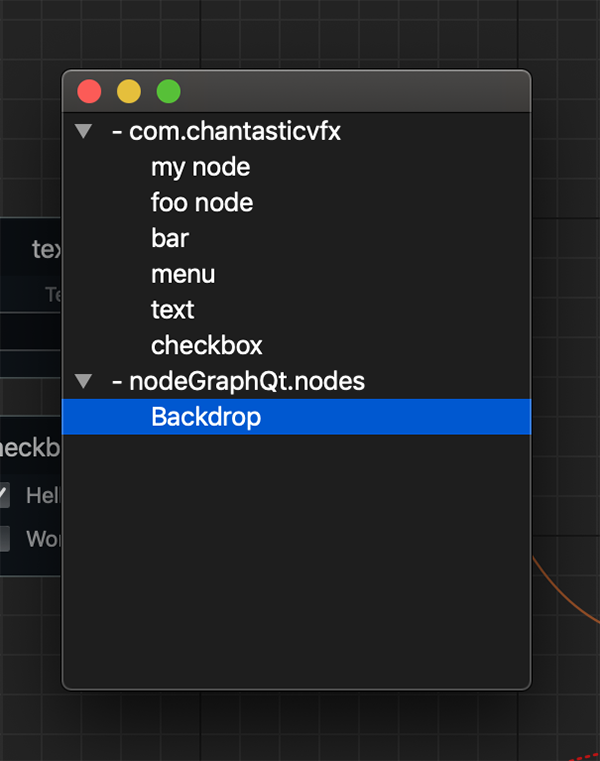
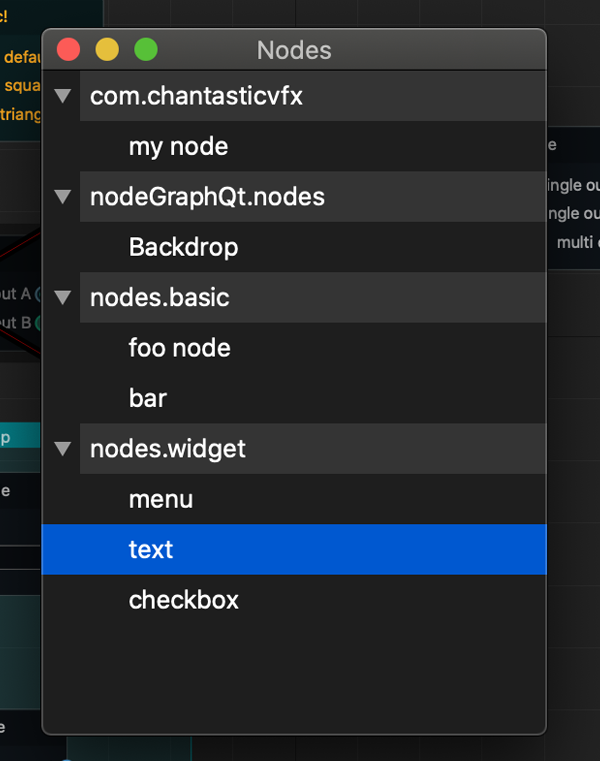
rebuilt docs

diff --git a/api/html/searchindex.js b/api/html/searchindex.js
@@ -1,1 +1,1 @@
-Search.setIndex({docnames:["constants","custom_widgets","examples/ex_menu","examples/ex_node","examples/ex_overview","examples/ex_pipe","examples/ex_port","graph","index","menu","node_widgets","nodes","nodes/BackdropNode","nodes/BaseNode","nodes/NodeObject","nodes/Port"],envversion:{"sphinx.domains.c":2,"sphinx.domains.changeset":1,"sphinx.domains.citation":1,"sphinx.domains.cpp":3,"sphinx.domains.index":1,"sphinx.domains.javascript":2,"sphinx.domains.math":2,"sphinx.domains.python":3,"sphinx.domains.rst":2,"sphinx.domains.std":2,"sphinx.ext.intersphinx":1,sphinx:56},filenames:["constants.rst","custom_widgets.rst","examples/ex_menu.rst","examples/ex_node.rst","examples/ex_overview.rst","examples/ex_pipe.rst","examples/ex_port.rst","graph.rst","index.rst","menu.rst","node_widgets.rst","nodes.rst","nodes/BackdropNode.rst","nodes/BaseNode.rst","nodes/NodeObject.rst","nodes/Port.rst"],objects:{"NodeGraphQt.BackdropNode":{auto_size:[12,1,1,""],nodes:[12,1,1,""],on_backdrop_updated:[12,1,1,""],set_size:[12,1,1,""],set_text:[12,1,1,""],size:[12,1,1,""],text:[12,1,1,""],wrap_nodes:[12,1,1,""]},"NodeGraphQt.BaseNode":{add_checkbox:[13,1,1,""],add_combo_menu:[13,1,1,""],add_custom_widget:[13,1,1,""],add_file_input:[13,1,1,""],add_float_input:[13,1,1,""],add_input:[13,1,1,""],add_int_input:[13,1,1,""],add_output:[13,1,1,""],add_text_input:[13,1,1,""],connected_input_nodes:[13,1,1,""],connected_output_nodes:[13,1,1,""],delete_input:[13,1,1,""],delete_output:[13,1,1,""],draw:[13,1,1,""],get_input:[13,1,1,""],get_output:[13,1,1,""],get_widget:[13,1,1,""],hide:[13,1,1,""],icon:[13,1,1,""],input:[13,1,1,""],input_ports:[13,1,1,""],inputs:[13,1,1,""],on_input_connected:[13,1,1,""],on_input_disconnected:[13,1,1,""],output:[13,1,1,""],output_ports:[13,1,1,""],outputs:[13,1,1,""],run:[13,1,1,""],set_dynamic_port:[13,1,1,""],set_editable:[13,1,1,""],set_icon:[13,1,1,""],set_input:[13,1,1,""],set_output:[13,1,1,""],set_ports:[13,1,1,""],show:[13,1,1,""],update_combo_menu:[13,1,1,""],update_stream:[13,1,1,""],widgets:[13,1,1,""]},"NodeGraphQt.NodeBaseWidget":{get_custom_widget:[10,1,1,""],get_icon:[10,1,1,""],get_label:[10,1,1,""],get_name:[10,1,1,""],get_value:[10,1,1,""],on_value_changed:[10,1,1,""],set_custom_widget:[10,1,1,""],set_label:[10,1,1,""],set_name:[10,1,1,""],set_value:[10,1,1,""],value_changed:[10,2,1,""]},"NodeGraphQt.NodeGraph":{acyclic:[7,1,1,""],add_node:[7,1,1,""],add_properties_bin:[7,1,1,""],all_nodes:[7,1,1,""],auto_layout_nodes:[7,1,1,""],auto_update:[7,3,1,""],background_color:[7,1,1,""],begin_undo:[7,1,1,""],center_on:[7,1,1,""],center_selection:[7,1,1,""],clear_selection:[7,1,1,""],clear_session:[7,1,1,""],clear_undo_stack:[7,1,1,""],close:[7,1,1,""],context_menu:[7,1,1,""],context_nodes_menu:[7,1,1,""],copy_nodes:[7,1,1,""],create_node:[7,1,1,""],current_session:[7,1,1,""],cut_nodes:[7,1,1,""],data_dropped:[7,2,1,""],delete_node:[7,1,1,""],delete_nodes:[7,1,1,""],deserialize_session:[7,1,1,""],disable_context_menu:[7,1,1,""],disable_nodes:[7,1,1,""],duplicate_nodes:[7,1,1,""],editable:[7,3,1,""],end_undo:[7,1,1,""],fit_to_selection:[7,1,1,""],get_context_menu:[7,1,1,""],get_node_by_id:[7,1,1,""],get_node_by_name:[7,1,1,""],get_node_by_path:[7,1,1,""],get_node_space:[7,1,1,""],get_unique_name:[7,1,1,""],get_zoom:[7,1,1,""],graph_rect:[7,1,1,""],grid_color:[7,1,1,""],import_session:[7,1,1,""],load_dialog:[7,1,1,""],load_session:[7,1,1,""],message_dialog:[7,1,1,""],model:[7,2,1,""],node_created:[7,2,1,""],node_double_clicked:[7,2,1,""],node_factory:[7,3,1,""],node_selected:[7,2,1,""],node_selection_changed:[7,2,1,""],nodes_deleted:[7,2,1,""],paste_nodes:[7,1,1,""],pipe_collision:[7,1,1,""],port_connected:[7,2,1,""],port_disconnected:[7,2,1,""],property_changed:[7,2,1,""],question_dialog:[7,1,1,""],register_node:[7,1,1,""],register_nodes:[7,1,1,""],registered_nodes:[7,1,1,""],reset_zoom:[7,1,1,""],root_node:[7,1,1,""],save_dialog:[7,1,1,""],save_session:[7,1,1,""],scene:[7,1,1,""],select_all:[7,1,1,""],selected_nodes:[7,1,1,""],serialize_session:[7,1,1,""],session_changed:[7,2,1,""],set_acyclic:[7,1,1,""],set_background_color:[7,1,1,""],set_graph_rect:[7,1,1,""],set_grid_color:[7,1,1,""],set_grid_mode:[7,1,1,""],set_node_space:[7,1,1,""],set_pipe_collision:[7,1,1,""],set_pipe_style:[7,1,1,""],set_zoom:[7,1,1,""],show:[7,1,1,""],undo_stack:[7,1,1,""],undo_view:[7,3,1,""],use_OpenGL:[7,1,1,""],viewer:[7,1,1,""],widget:[7,2,1,""]},"NodeGraphQt.NodeGraphCommand":{name:[9,1,1,""],run_command:[9,1,1,""],set_shortcut:[9,1,1,""]},"NodeGraphQt.NodeGraphMenu":{add_command:[9,1,1,""],add_menu:[9,1,1,""],add_separator:[9,1,1,""],all_commands:[9,1,1,""],get_command:[9,1,1,""],get_menu:[9,1,1,""],name:[9,1,1,""]},"NodeGraphQt.NodeObject":{"delete":[14,1,1,""],NODE_NAME:[14,2,1,""],__identifier__:[14,2,1,""],color:[14,1,1,""],create_property:[14,1,1,""],disabled:[14,1,1,""],get_property:[14,1,1,""],graph:[14,2,1,""],has_property:[14,1,1,""],hide:[14,1,1,""],id:[14,2,1,""],model:[14,2,1,""],name:[14,1,1,""],parent:[14,1,1,""],path:[14,1,1,""],pos:[14,1,1,""],properties:[14,1,1,""],selected:[14,1,1,""],set_color:[14,1,1,""],set_disabled:[14,1,1,""],set_graph:[14,1,1,""],set_model:[14,1,1,""],set_name:[14,1,1,""],set_parent:[14,1,1,""],set_pos:[14,1,1,""],set_property:[14,1,1,""],set_selected:[14,1,1,""],set_view:[14,1,1,""],set_x_pos:[14,1,1,""],set_y_pos:[14,1,1,""],show:[14,1,1,""],type_:[14,2,1,""],update:[14,1,1,""],update_model:[14,1,1,""],view:[14,2,1,""],x_pos:[14,1,1,""],y_pos:[14,1,1,""]},"NodeGraphQt.NodeTreeWidget":{set_category_label:[1,1,1,""],update:[1,1,1,""]},"NodeGraphQt.NodesMenu":{add_command:[9,1,1,""]},"NodeGraphQt.Port":{clear_connections:[15,1,1,""],connect_to:[15,1,1,""],connected_ports:[15,1,1,""],disconnect_from:[15,1,1,""],lock:[15,1,1,""],locked:[15,1,1,""],multi_connection:[15,1,1,""],name:[15,1,1,""],node:[15,1,1,""],set_locked:[15,1,1,""],set_visible:[15,1,1,""],type_:[15,1,1,""],unlock:[15,1,1,""],visible:[15,1,1,""]},"NodeGraphQt.PropertiesBinWidget":{add_node:[1,1,1,""],clear_bin:[1,1,1,""],limit:[1,1,1,""],lock_bin:[1,1,1,""],prop_widget:[1,1,1,""],remove_node:[1,1,1,""],set_limit:[1,1,1,""]},"NodeGraphQt.SubGraph":{add_child:[7,1,1,""],children:[7,1,1,""],create_from_nodes:[7,1,1,""],enter:[7,1,1,""],exit:[7,1,1,""],remove_child:[7,1,1,""]},"NodeGraphQt.constants":{IN_PORT:[0,5,1,""],NODE_LAYOUT_DIRECTION:[0,5,1,""],NODE_LAYOUT_HORIZONTAL:[0,5,1,""],NODE_LAYOUT_VERTICAL:[0,5,1,""],NODE_PROP:[0,5,1,""],NODE_PROP_BUTTON:[0,5,1,""],NODE_PROP_COLORPICKER:[0,5,1,""],NODE_PROP_FILE:[0,5,1,""],NODE_PROP_FILE_SAVE:[0,5,1,""],NODE_PROP_FLOAT:[0,5,1,""],NODE_PROP_INT:[0,5,1,""],NODE_PROP_QCHECKBOX:[0,5,1,""],NODE_PROP_QCOMBO:[0,5,1,""],NODE_PROP_QLABEL:[0,5,1,""],NODE_PROP_QLINEEDIT:[0,5,1,""],NODE_PROP_QSPINBOX:[0,5,1,""],NODE_PROP_QTEXTEDIT:[0,5,1,""],NODE_PROP_SLIDER:[0,5,1,""],NODE_PROP_VECTOR2:[0,5,1,""],NODE_PROP_VECTOR3:[0,5,1,""],NODE_PROP_VECTOR4:[0,5,1,""],OUT_PORT:[0,5,1,""],PIPE_LAYOUT_ANGLE:[0,5,1,""],PIPE_LAYOUT_CURVED:[0,5,1,""],PIPE_LAYOUT_STRAIGHT:[0,5,1,""],VERSION:[0,5,1,""],VIEWER_GRID_DOTS:[0,5,1,""],VIEWER_GRID_LINES:[0,5,1,""],VIEWER_GRID_NONE:[0,5,1,""]},"NodeGraphQt.widgets.node_widgets":{NodeCheckBox:[10,0,1,""],NodeComboBox:[10,0,1,""],NodeFilePath:[10,0,1,""],NodeFloatEdit:[10,0,1,""],NodeIntEdit:[10,0,1,""],NodeLineEdit:[10,0,1,""]},"NodeGraphQt.widgets.node_widgets.NodeCheckBox":{get_value:[10,1,1,""],set_value:[10,1,1,""]},"NodeGraphQt.widgets.node_widgets.NodeComboBox":{get_value:[10,1,1,""],set_value:[10,1,1,""]},"NodeGraphQt.widgets.node_widgets.NodeFloatEdit":{get_value:[10,1,1,""],set_value:[10,1,1,""]},"NodeGraphQt.widgets.node_widgets.NodeLineEdit":{get_value:[10,1,1,""],set_value:[10,1,1,""]},NodeGraphQt:{BackdropNode:[12,0,1,""],BaseNode:[13,0,1,""],NodeBaseWidget:[10,0,1,""],NodeGraph:[7,0,1,""],NodeGraphCommand:[9,0,1,""],NodeGraphMenu:[9,0,1,""],NodeObject:[14,0,1,""],NodePublishWidget:[1,0,1,""],NodeTreeWidget:[1,0,1,""],NodesMenu:[9,0,1,""],Port:[15,0,1,""],PropertiesBinWidget:[1,0,1,""],SubGraph:[7,0,1,""],constants:[0,4,0,"-"],setup_context_menu:[9,6,1,""]}},objnames:{"0":["py","class","Python class"],"1":["py","method","Python method"],"2":["py","attribute","Python attribute"],"3":["py","property","Python property"],"4":["py","module","Python module"],"5":["py","data","Python data"],"6":["py","function","Python function"]},objtypes:{"0":"py:class","1":"py:method","2":"py:attribute","3":"py:property","4":"py:module","5":"py:data","6":"py:function"},terms:{"0":[0,3,4,6,7,10,13,14],"1":[0,1,2,3,4,5,6,7,9,10,11,12,13,14,15],"10":0,"100":[2,3],"11":0,"12":0,"13":0,"130":6,"136":6,"14":[0,6],"15":0,"16":0,"17":0,"180":4,"195":6,"2":[0,3,4,6,7,13],"200":6,"23":3,"255":[6,7,13,14],"3":[0,5],"300":[2,3,4],"35":6,"4":0,"45":6,"5":0,"50":4,"59":6,"6":[0,1,2,3,4,5,6,7,9,10,11,12,13,14,15],"60":6,"7":0,"70":6,"8":[0,6],"80":4,"9":[0,7],"class":[1,2,3,4,5,6,7,9,10,12,13,14,15],"default":[0,3,4,6,7,8,10,13],"float":[0,7,10,12,13,14],"function":[2,3,5,6,7,9,10,13,14],"import":[1,2,3,4,5,6,7,9,13],"int":[0,1,6,7,13,14],"new":[1,7,10,13,15],"return":[1,3,7,9,10,12,13,14,15],"short":2,"super":[2,3,4,5,6,13],"true":[7,13,14,15],A:4,And:6,By:7,For:15,If:[7,13,15],No:7,The:[0,1,2,3,5,6,7,9,10,12,13,14,15],There:3,To:[3,6,7,10],__classname__:14,__identifier__:[2,3,4,13,14],__init__:[2,3,4,6,13],__main__:[3,4],__name__:[3,4],_prop_bin:3,abov:[3,5,10],abstractnodeitem:14,access:9,action:[4,5,7],acycl:7,ad:[3,7,8,10,13,15],add:[1,2,3,7,9,13],add_checkbox:[3,10,13],add_child:7,add_combo_menu:[3,10,13],add_command:[2,9],add_custom_widget:[3,13],add_file_input:[10,13],add_float_input:[10,13],add_input:[2,3,4,6,13,15],add_int_input:[10,13],add_menu:[2,9],add_nod:[1,7],add_output:[2,3,4,6,13,15],add_properties_bin:7,add_separ:9,add_text_input:[3,10,13],additem:3,addwidget:3,after:13,alia:7,all:[1,7,9,13,14,15],all_command:9,all_nod:7,allow:[3,7,10,12,13],alreadi:5,also:2,alt:4,an:[2,3,4,6,7,13],angl:[0,5,7],anoth:[6,13,15],app:[3,4],append:[6,9],appl:3,appli:15,ar:[3,7,10,14,15],arg:[6,7,10,15],argument:6,argv:4,around:12,asid:2,assign:2,associ:13,attribut:[10,14],auto:[7,12],auto_layout_nod:7,auto_s:12,auto_upd:7,automat:7,avoid:7,b:[3,4,7,13,14],backdrop:12,backdropnod:[8,11,14],background:[0,7],background_color:7,banana:3,bar:[2,3],bar_nod:2,barnod:2,base:[3,7,13,14],basenod:[1,2,3,4,6,7,8,10,11,12,14,15],basi:2,basic:[3,8],been:[7,13],befor:10,begin_undo:7,below:[2,3,10],between:7,bin:[0,3,7,8,14],block:7,blue:[7,14],bool:[7,10,13,14,15],border_color:6,box:3,btn_go:3,built:[4,14],builtin:10,button:[0,3,7],c:3,call:[2,3,15],callback:13,can:[1,2,3,4,5,6,7,10,15],categori:1,cb1_index:3,cb2_index:3,center:[6,7],center_on:7,center_select:7,chang:[7,10],chantasticvfx:[2,3,4,13],check:[10,13,14],checkbox:13,child:9,children:7,class_nam:14,clear:[1,7],clear_bin:1,clear_connect:15,clear_select:7,clear_sess:7,clear_undo_stack:7,click:[2,3,7],clipboard:7,close:7,code:9,collis:7,color:[4,6,7,13,14],colorpick:0,com:[2,3,4,8,13],combin:9,combo1_v:3,combo2_v:3,combo:3,combo_1:3,combo_2:3,combobox:13,command:[2,4,8],compon:7,connect:[0,4,6,7,8,10,13,15],connect_to:[3,15],connected_input_nod:13,connected_output_nod:13,connected_port:15,constant:[5,7,8,14,15],contain:[0,7],context:[2,7,8],context_menu:[2,7,9],context_nodes_menu:7,control:[4,7],conveni:[2,5,7,9],copi:7,copy_nod:7,coupl:[2,3],creat:[1,2,4,7,8,13,14,15],create_from_nod:7,create_nod:[2,3,4,7],create_properti:[13,14],current:[0,6,7,9,10,12,14,15],current_dir:7,current_sess:7,currentindexchang:3,currenttext:3,curv:[0,5,7],custom:[2,7,8,10,13,14],cut:[2,7],cut_nod:7,data:[7,13,14],data_drop:7,data_typ:13,def:[2,3,4,6,13],defin:[2,14],delet:[7,13,14],delete_input:13,delete_nod:7,delete_output:13,describ:6,deselect:7,deseri:13,deserialize_sess:7,dialog:[1,7],dict:[6,7,13,14],dictionari:[7,14],differ:5,direct:0,directori:7,disabl:[7,14],disable_context_menu:7,disable_nod:7,disconnect:[4,7,13,15],disconnect_from:[3,15],displai:[1,3,10,12,13,14],display_nam:13,display_prop_bin:3,document:8,doe:13,domain:[4,13,14],done:3,dot:0,doubl:[3,7],down:[4,13],down_stream:7,drag:[1,4,7],draw:[0,6,7,13,14,15],draw_square_port:6,draw_triangle_port:6,drawn:7,drawpolygon:6,drawrect:6,drop:[1,7],duplic:7,duplicate_nod:7,easili:[4,5],edit:[1,5,7,13],eg:[1,9,14],either:14,elif:6,els:[3,6],emb:[3,10,13],embed:[8,13],emit:[7,10,15],enabl:[7,14],end:7,end_undo:7,enter:7,essenti:[2,9],evalu:13,event:13,exampl:[1,7,9,10,13],exec_:[3,4],execut:9,exist:[14,15],exit:7,ext:[7,10,13,14],extens:7,factor:7,factori:7,fals:[6,7,10,13,14,15],few:[1,2,3],ffffff:7,file:[0,1,7,13,14],file_path:7,fill:13,findtext:3,fit:[7,12],fit_to_select:7,flag:[13,14],follow:[7,14],foo:[2,3,4,13],foo_menu:2,foo_nod:2,foonod:[2,4,13],forc:13,format:[1,2,3,7],frame:7,framework:[0,1,10],from:[1,2,3,4,5,6,7,9,10,12,13,14,15],func:[2,9,10,14],g:[7,13,14],get:[2,7,9,13,14],get_command:9,get_context_menu:[2,7,9],get_custom_widget:[3,10],get_icon:10,get_input:13,get_label:10,get_menu:9,get_nam:10,get_node_by_id:7,get_node_by_nam:7,get_node_by_path:7,get_node_spac:7,get_output:13,get_properti:14,get_unique_nam:7,get_valu:[3,10],get_widget:13,get_zoom:7,github:8,given:7,go:3,good:12,graph:[0,1,3,4,5,8,10,12,14,15],graph_rect:7,graph_widget:4,graphic:[14,15],green:[7,14],grid:[0,7],grid_color:7,group:12,ha:[2,5,7,10,13],has_properti:14,have:[3,5,6,7,13],height:[6,7,12],hello:3,here:[1,2,3,4,5,6,14],hidden:0,hide:[13,14],horizont:[0,14],hotkei:4,hover:6,how:1,http:8,icon:[10,13],id:[1,7,14],identifi:[1,3,4,7,13,14],imag:13,implement:[6,7,9,10,13,14],import_sess:7,in_port:[0,13,15],includ:1,index:[3,13],info:6,inform:6,inherit:[4,7,9,10,12,13,14],initi:[3,4,7,13,14],input:[0,3,4,6,7,13,15],input_port:13,insert:7,insid:[3,12],instanc:7,interfac:[4,7],intern:7,intersect:12,isvis:3,item:[3,9,10,13,14,15],jchanvfx:8,json:[1,7],just:7,kei:[2,9],kwarg:10,label:[1,3,9,10,13],lai:7,layout:[0,3,7,8],layout_data:7,len:[2,3],level:7,librari:0,limit:1,line:[0,3,13],list:[1,3,7,9,12,13,14,15],ll:[5,9],lmb:[4,7],load:[1,7],load_dialog:7,load_sess:7,lock:[1,13,15],lock_bin:1,logic:13,made:13,main:[2,7,9,10,14],mainli:12,make:[3,7],manag:7,mango:3,mani:1,map:6,marque:4,match:[7,13],matchexactli:3,max:[7,14],menu:[4,7,8,13],menucommand:9,messag:7,message_dialog:7,meth:10,method:[7,13],mime:7,min:14,miterjoin:6,mmb:4,mode:[0,7,14],model:[7,14],modul:2,more:[3,13],mous:[4,6],multi:13,multi_connect:[6,13,15],multi_input:13,multi_lin:13,multi_output:13,multipl:3,must:10,my:3,my_list:3,my_test:2,my_widget:3,mycustomwidget:3,mylistnod:[3,6],mynod:3,mynodegraph:3,name:[2,3,4,7,9,10,13,14,15],namespac:0,navig:8,need:[6,7],nest:[10,12],node:[0,5,7,8,12,13,14,15],node_a:[3,4],node_abstract:14,node_b:[3,4],node_class:9,node_cr:7,node_double_click:[3,7],node_factori:7,node_graph:[1,2,3,9],node_id:7,node_layout_direct:0,node_layout_horizont:0,node_layout_vert:0,node_list:13,node_nam:[2,3,4,13,14],node_path:7,node_prop:[0,14],node_prop_button:[0,14],node_prop_colorpick:[0,14],node_prop_fil:[0,14],node_prop_file_sav:0,node_prop_float:[0,14],node_prop_int:[0,14],node_prop_qcheckbox:[0,14],node_prop_qcombo:[0,14],node_prop_qlabel:[0,14],node_prop_qlineedit:[0,14],node_prop_qspinbox:[0,14],node_prop_qtextedit:[0,14],node_prop_slid:[0,14],node_prop_vector2:[0,14],node_prop_vector3:[0,14],node_prop_vector4:[0,14],node_property_nam:10,node_property_valu:10,node_select:7,node_selection_chang:7,node_typ:[2,7,9],node_widget:[3,10,13],nodebasewidget:[3,8,13],nodecheckbox:8,nodecombobox:8,nodefactori:7,nodefilepath:8,nodefloatedit:8,nodegraph:[1,2,3,4,5,8,9,14,15],nodegraphcommand:9,nodegraphmenu:[7,9],nodegraphmodel:7,nodegraphqt:[0,1,2,3,4,5,6,7,9,10,12,13,14,15],nodeintedit:8,nodelineedit:8,nodemodel:14,nodeobject:[1,3,7,8,11,12,13,15],nodepropwidget:1,nodepublishwidget:1,nodes_delet:7,nodes_menu:[2,9],nodes_tre:1,nodescen:7,nodesmenu:[7,9],nodetreewidget:1,nodeview:7,nodewidgetwrapp:3,none:[1,3,7,9,10,12,13,14,15],nonetyp:13,note:5,noth:[0,13],now:6,number:2,object:[1,2,3,4,6,7,10,12,13,14,15],on_backdrop_upd:12,on_btn_go_click:3,on_input_connect:13,on_input_disconnect:13,on_value_chang:[3,10],one:[13,15],open:7,opengl:7,option:[7,12],orang:3,other:12,out:[0,2,3,4,7,13],out_port:[0,13,15],output:[0,3,4,7,13,15],output_port:13,over:[6,7],overrid:[2,13],overview:[7,8],own:10,paint:6,painter:6,painter_func:[6,13],pan:4,paramet:[1,6,7,9,10,12,13,14,15],parent:[1,3,7,10,14,15],parent_nod:14,pass:6,past:7,paste_nod:7,path:[7,13,14],pear:3,pen:6,per:2,pipe:[0,7,8,13,15],pipe_collis:7,pipe_layout_angl:[0,5,7],pipe_layout_curv:[0,5,7],pipe_layout_straight:[0,5,7],po:[2,3,4,7,14],polygon:6,popul:9,port:[0,3,4,7,8,11,13],port_a:3,port_b:3,port_connect:[7,15],port_data:13,port_disconnect:[7,15],port_nam:13,port_object:13,port_poli:6,port_typ:6,portitem:[13,15],posit:[6,7,14],pre:13,print:[2,3],prompt:7,prop_bin:7,prop_widget:1,properti:[0,3,7,8,10,12,13,14],properties_bin:1,propertiesbin:8,propertiesbinwidget:[1,3,7,13,14],property_chang:7,property_nam:13,propeti:10,provid:14,publish:8,pyside2:[7,13],python:14,qaction:9,qapplic:[3,4],qcheckbox:[0,3,10,13],qcolor:6,qcombobox:[0,3,10,13],qgraphic:14,qgraphics_item:14,qgraphicsitem:14,qgraphicsscen:7,qhboxlayout:3,qlabel:[0,13],qlayout:7,qlineedit:[0,3,10,13],qmenu:9,qmimedata:7,qobject:7,qpainter:6,qpen:6,qpoint:7,qpointf:6,qpolygonf:6,qpushbutton:3,qrectf:6,qspinbox:0,qt:[3,4,6,10],qtcore:[3,6,7],qtextedit:0,qtgui:6,qtransform:6,qtwidget:[1,3,4,7,10,13,14],question:7,question_dialog:7,qundostack:7,qundoview:7,qwidget:[1,3,7,10],r:[7,13,14],rang:[7,13,14],re:[9,10,13,14],rect:[6,7],red:[7,14],redo:13,redraw:13,refresh:1,regist:[1,2,4,7],register_nod:[2,3,4,7],registered_nod:7,reimplement:3,remov:[1,7],remove_child:7,remove_nod:1,render:0,repres:0,requir:13,reset:7,reset_zoom:7,resiz:12,restor:[6,13],result:[4,9],revers:13,root:7,root_nod:7,run:[7,13],run_command:9,s:[1,3,4,5,6,9,12],same:[7,15],save:[0,6,7],save_dialog:7,save_sess:7,scene:[7,13,14],scroll:4,search:8,see:[2,3,7,10,13,15],select:[2,7,8,14],select_al:7,selected_nod:[2,7],selector:0,self:[2,3,4,6,13],separ:9,serial:[1,7,13],serialize_sess:7,session:7,session_chang:7,set:[0,1,2,3,4,5,7,9,10,12,13,14,15],set_acycl:7,set_background_color:7,set_category_label:1,set_color:14,set_custom_widget:[3,10],set_dis:[7,14],set_dynamic_port:13,set_edit:13,set_graph:14,set_graph_rect:7,set_grid_color:7,set_grid_mod:7,set_icon:13,set_input:[3,13],set_label:[3,10],set_limit:1,set_lock:[13,15],set_model:14,set_nam:[3,10,14],set_node_spac:7,set_output:[3,4,13],set_par:14,set_pipe_collis:7,set_pipe_styl:[5,7],set_po:14,set_port:13,set_properti:[3,10,13,14],set_select:14,set_shortcut:9,set_siz:12,set_text:12,set_valu:[3,10],set_view:14,set_vis:15,set_x_po:14,set_y_po:14,set_zoom:7,setbrush:6,setcontentsmargin:3,setcurrentindex:3,setjoinstyl:6,setpen:6,setup:8,setup_context_menu:[2,4,5,9],setwindowflag:3,shape:[8,13],shift:[2,4],shortcut:9,shotcut:9,should:15,show:[1,2,3,4,7,13,14],shown:5,signal:[3,7,10,12,13,15],simpl:[1,5,7,8],simpli:3,singl:15,size:[6,12],slice:8,slider:[0,13],slot:[3,10,12],snippet:[4,5,13],so:15,some:[2,3,14],sourc:13,space:7,specifi:[6,7,9,12,13,15],split:3,squar:8,stack:7,start:7,start_nod:7,state:[6,7,10,13,14,15],store:7,str:[1,7,9,10,12,13,14,15],straight:[0,5,7],stream:[7,13],string:[7,12,14],style:[0,5,7],sub:[7,9],subclass:3,subgraph:[8,14],sy:4,t:[2,15],tab:[3,8,13,14],target:13,test:2,test_func:2,text:[7,10,12,13],text_color:7,than:13,them:4,thi:[1,2,5,7,10,13,14,15],throughout:0,titl:7,togeth:[4,12],toggl:4,tool:[3,4],transform:6,translat:6,tree:8,triangl:8,trigger:[7,9,10,12,13],tupl:[7,12,13,14],two:4,type:[0,1,2,3,7,9,10,12,13,14,15],type_:[14,15],under:[5,12],undo:[7,13],undo_stack:7,undo_view:7,uniqu:[3,4,7,13,14],unique_nam:7,unlik:7,unlock:[1,15],unselect:4,up:[2,3,4,5,7,13],updat:[1,3,12,13,14],update_combo_menu:13,update_model:14,update_prop:12,update_stream:13,us:[0,4,6,7,10,14,15],use_opengl:7,user:[1,4,7],v0:[0,1,2,3,4,5,6,7,9,10,11,12,13,14,15],valu:[3,7,10,12,13,14],value_chang:[10,13],variabl:[0,5,14],ve:5,vector2:0,vector3:0,vector4:0,version:0,vertic:0,view:[3,7,10,13,14],viewer:7,viewer_grid_dot:[0,7],viewer_grid_lin:[0,7],viewer_grid_non:[0,7],visibl:[4,13,15],wa:13,wai:3,we:[2,3],weather:[7,15],when:[3,7,10,13,15],where:[2,3,6],whether:[7,13,14],whole:0,widget:[0,2,4,7,13,14],widget_typ:[13,14],width:[7,12],window:7,wire:[3,7,13],wire_sign:3,within:12,work:13,world:3,wrap:12,wrap_nod:12,wrapper:[3,10],x:[6,7,14],x_po:14,xy:14,y:[6,7,14],y_po:14,ye:7,you:[2,3,5,6,10,13],your:[5,10],zoom:[4,7]},titles:["Constants","Custom Widgets","Menu Examples","Node Examples","Basic Overview","Pipe Examples","Port Examples","Graphs","NodeGraphQt v0.1.6","Menus","Node Embedded Widgets","Nodes","BackdropNode","BaseNode","NodeObject","Port"],titleterms:{"1":8,"6":8,"class":11,"default":2,ad:2,api:8,backdropnod:12,basenod:13,basic:4,bin:1,command:9,connect:3,constant:0,context:9,creat:[3,6],custom:[1,3,6],embed:[3,10],exampl:[2,3,4,5,6,8],graph:[2,7,9],layout:5,menu:[2,9],navig:4,node:[1,2,3,4,9,10,11],nodebasewidget:10,nodecheckbox:10,nodecombobox:10,nodefilepath:10,nodefloatedit:10,nodegraph:7,nodegraphqt:8,nodeintedit:10,nodelineedit:10,nodeobject:14,overview:4,pipe:[4,5],port:[6,15],properti:1,propertiesbin:3,publish:1,refer:8,search:4,select:4,setup:[2,9],shape:6,simpl:4,slice:4,squar:6,subgraph:7,tab:4,tree:1,triangl:6,v0:8,widget:[1,3,8,10]}})
+Search.setIndex({docnames:["constants","custom_widgets","examples/ex_menu","examples/ex_node","examples/ex_overview","examples/ex_pipe","examples/ex_port","graph","index","menu","node_widgets","nodes","nodes/BackdropNode","nodes/BaseNode","nodes/NodeObject","nodes/Port"],envversion:{"sphinx.domains.c":2,"sphinx.domains.changeset":1,"sphinx.domains.citation":1,"sphinx.domains.cpp":3,"sphinx.domains.index":1,"sphinx.domains.javascript":2,"sphinx.domains.math":2,"sphinx.domains.python":3,"sphinx.domains.rst":2,"sphinx.domains.std":2,"sphinx.ext.intersphinx":1,sphinx:56},filenames:["constants.rst","custom_widgets.rst","examples/ex_menu.rst","examples/ex_node.rst","examples/ex_overview.rst","examples/ex_pipe.rst","examples/ex_port.rst","graph.rst","index.rst","menu.rst","node_widgets.rst","nodes.rst","nodes/BackdropNode.rst","nodes/BaseNode.rst","nodes/NodeObject.rst","nodes/Port.rst"],objects:{"NodeGraphQt.BackdropNode":{auto_size:[12,1,1,""],nodes:[12,1,1,""],on_backdrop_updated:[12,1,1,""],set_size:[12,1,1,""],set_text:[12,1,1,""],size:[12,1,1,""],text:[12,1,1,""],wrap_nodes:[12,1,1,""]},"NodeGraphQt.BaseNode":{add_checkbox:[13,1,1,""],add_combo_menu:[13,1,1,""],add_custom_widget:[13,1,1,""],add_file_input:[13,1,1,""],add_float_input:[13,1,1,""],add_input:[13,1,1,""],add_int_input:[13,1,1,""],add_output:[13,1,1,""],add_text_input:[13,1,1,""],connected_input_nodes:[13,1,1,""],connected_output_nodes:[13,1,1,""],delete_input:[13,1,1,""],delete_output:[13,1,1,""],draw:[13,1,1,""],get_input:[13,1,1,""],get_output:[13,1,1,""],get_widget:[13,1,1,""],hide:[13,1,1,""],icon:[13,1,1,""],input:[13,1,1,""],input_ports:[13,1,1,""],inputs:[13,1,1,""],on_input_connected:[13,1,1,""],on_input_disconnected:[13,1,1,""],output:[13,1,1,""],output_ports:[13,1,1,""],outputs:[13,1,1,""],run:[13,1,1,""],set_dynamic_port:[13,1,1,""],set_editable:[13,1,1,""],set_icon:[13,1,1,""],set_input:[13,1,1,""],set_output:[13,1,1,""],set_ports:[13,1,1,""],show:[13,1,1,""],update_combo_menu:[13,1,1,""],update_stream:[13,1,1,""],widgets:[13,1,1,""]},"NodeGraphQt.NodeBaseWidget":{get_custom_widget:[10,1,1,""],get_icon:[10,1,1,""],get_label:[10,1,1,""],get_name:[10,1,1,""],get_value:[10,1,1,""],on_value_changed:[10,1,1,""],set_custom_widget:[10,1,1,""],set_label:[10,1,1,""],set_name:[10,1,1,""],set_value:[10,1,1,""],value_changed:[10,2,1,""]},"NodeGraphQt.NodeGraph":{acyclic:[7,1,1,""],add_node:[7,1,1,""],add_properties_bin:[7,1,1,""],all_nodes:[7,1,1,""],auto_layout_nodes:[7,1,1,""],auto_update:[7,3,1,""],background_color:[7,1,1,""],begin_undo:[7,1,1,""],center_on:[7,1,1,""],center_selection:[7,1,1,""],clear_selection:[7,1,1,""],clear_session:[7,1,1,""],clear_undo_stack:[7,1,1,""],close:[7,1,1,""],context_menu:[7,1,1,""],context_nodes_menu:[7,1,1,""],copy_nodes:[7,1,1,""],create_node:[7,1,1,""],current_session:[7,1,1,""],cut_nodes:[7,1,1,""],data_dropped:[7,2,1,""],delete_node:[7,1,1,""],delete_nodes:[7,1,1,""],deserialize_session:[7,1,1,""],disable_context_menu:[7,1,1,""],disable_nodes:[7,1,1,""],duplicate_nodes:[7,1,1,""],editable:[7,3,1,""],end_undo:[7,1,1,""],fit_to_selection:[7,1,1,""],get_context_menu:[7,1,1,""],get_node_by_id:[7,1,1,""],get_node_by_name:[7,1,1,""],get_node_by_path:[7,1,1,""],get_node_space:[7,1,1,""],get_unique_name:[7,1,1,""],get_zoom:[7,1,1,""],graph_rect:[7,1,1,""],grid_color:[7,1,1,""],import_session:[7,1,1,""],load_dialog:[7,1,1,""],load_session:[7,1,1,""],message_dialog:[7,1,1,""],model:[7,2,1,""],node_created:[7,2,1,""],node_double_clicked:[7,2,1,""],node_factory:[7,3,1,""],node_selected:[7,2,1,""],node_selection_changed:[7,2,1,""],nodes_deleted:[7,2,1,""],paste_nodes:[7,1,1,""],pipe_collision:[7,1,1,""],port_connected:[7,2,1,""],port_disconnected:[7,2,1,""],property_changed:[7,2,1,""],question_dialog:[7,1,1,""],register_node:[7,1,1,""],register_nodes:[7,1,1,""],registered_nodes:[7,1,1,""],reset_zoom:[7,1,1,""],root_node:[7,1,1,""],save_dialog:[7,1,1,""],save_session:[7,1,1,""],scene:[7,1,1,""],select_all:[7,1,1,""],selected_nodes:[7,1,1,""],serialize_session:[7,1,1,""],session_changed:[7,2,1,""],set_acyclic:[7,1,1,""],set_background_color:[7,1,1,""],set_graph_rect:[7,1,1,""],set_grid_color:[7,1,1,""],set_grid_mode:[7,1,1,""],set_node_space:[7,1,1,""],set_pipe_collision:[7,1,1,""],set_pipe_style:[7,1,1,""],set_zoom:[7,1,1,""],show:[7,1,1,""],undo_stack:[7,1,1,""],undo_view:[7,3,1,""],use_OpenGL:[7,1,1,""],viewer:[7,1,1,""],widget:[7,2,1,""]},"NodeGraphQt.NodeGraphCommand":{name:[9,1,1,""],run_command:[9,1,1,""],set_shortcut:[9,1,1,""]},"NodeGraphQt.NodeGraphMenu":{add_command:[9,1,1,""],add_menu:[9,1,1,""],add_separator:[9,1,1,""],all_commands:[9,1,1,""],get_command:[9,1,1,""],get_menu:[9,1,1,""],name:[9,1,1,""]},"NodeGraphQt.NodeObject":{"delete":[14,1,1,""],NODE_NAME:[14,2,1,""],__identifier__:[14,2,1,""],color:[14,1,1,""],create_property:[14,1,1,""],disabled:[14,1,1,""],get_property:[14,1,1,""],graph:[14,2,1,""],has_property:[14,1,1,""],hide:[14,1,1,""],id:[14,2,1,""],model:[14,2,1,""],name:[14,1,1,""],parent:[14,1,1,""],path:[14,1,1,""],pos:[14,1,1,""],properties:[14,1,1,""],selected:[14,1,1,""],set_color:[14,1,1,""],set_disabled:[14,1,1,""],set_graph:[14,1,1,""],set_model:[14,1,1,""],set_name:[14,1,1,""],set_parent:[14,1,1,""],set_pos:[14,1,1,""],set_property:[14,1,1,""],set_selected:[14,1,1,""],set_view:[14,1,1,""],set_x_pos:[14,1,1,""],set_y_pos:[14,1,1,""],show:[14,1,1,""],type_:[14,2,1,""],update:[14,1,1,""],update_model:[14,1,1,""],view:[14,2,1,""],x_pos:[14,1,1,""],y_pos:[14,1,1,""]},"NodeGraphQt.NodeTreeWidget":{set_category_label:[1,1,1,""],update:[1,1,1,""]},"NodeGraphQt.NodesMenu":{add_command:[9,1,1,""]},"NodeGraphQt.Port":{clear_connections:[15,1,1,""],connect_to:[15,1,1,""],connected_ports:[15,1,1,""],disconnect_from:[15,1,1,""],lock:[15,1,1,""],locked:[15,1,1,""],multi_connection:[15,1,1,""],name:[15,1,1,""],node:[15,1,1,""],set_locked:[15,1,1,""],set_visible:[15,1,1,""],type_:[15,1,1,""],unlock:[15,1,1,""],visible:[15,1,1,""]},"NodeGraphQt.PropertiesBinWidget":{add_node:[1,1,1,""],clear_bin:[1,1,1,""],limit:[1,1,1,""],lock_bin:[1,1,1,""],prop_widget:[1,1,1,""],remove_node:[1,1,1,""],set_limit:[1,1,1,""]},"NodeGraphQt.SubGraph":{add_child:[7,1,1,""],children:[7,1,1,""],create_from_nodes:[7,1,1,""],enter:[7,1,1,""],exit:[7,1,1,""],remove_child:[7,1,1,""]},"NodeGraphQt.constants":{IN_PORT:[0,5,1,""],NODE_LAYOUT_DIRECTION:[0,5,1,""],NODE_LAYOUT_HORIZONTAL:[0,5,1,""],NODE_LAYOUT_VERTICAL:[0,5,1,""],NODE_PROP:[0,5,1,""],NODE_PROP_BUTTON:[0,5,1,""],NODE_PROP_COLORPICKER:[0,5,1,""],NODE_PROP_FILE:[0,5,1,""],NODE_PROP_FILE_SAVE:[0,5,1,""],NODE_PROP_FLOAT:[0,5,1,""],NODE_PROP_INT:[0,5,1,""],NODE_PROP_QCHECKBOX:[0,5,1,""],NODE_PROP_QCOMBO:[0,5,1,""],NODE_PROP_QLABEL:[0,5,1,""],NODE_PROP_QLINEEDIT:[0,5,1,""],NODE_PROP_QSPINBOX:[0,5,1,""],NODE_PROP_QTEXTEDIT:[0,5,1,""],NODE_PROP_SLIDER:[0,5,1,""],NODE_PROP_VECTOR2:[0,5,1,""],NODE_PROP_VECTOR3:[0,5,1,""],NODE_PROP_VECTOR4:[0,5,1,""],OUT_PORT:[0,5,1,""],PIPE_LAYOUT_ANGLE:[0,5,1,""],PIPE_LAYOUT_CURVED:[0,5,1,""],PIPE_LAYOUT_STRAIGHT:[0,5,1,""],VERSION:[0,5,1,""],VIEWER_GRID_DOTS:[0,5,1,""],VIEWER_GRID_LINES:[0,5,1,""],VIEWER_GRID_NONE:[0,5,1,""]},"NodeGraphQt.widgets.node_widgets":{NodeCheckBox:[10,0,1,""],NodeComboBox:[10,0,1,""],NodeFilePath:[10,0,1,""],NodeFloatEdit:[10,0,1,""],NodeIntEdit:[10,0,1,""],NodeLineEdit:[10,0,1,""]},"NodeGraphQt.widgets.node_widgets.NodeCheckBox":{get_value:[10,1,1,""],set_value:[10,1,1,""]},"NodeGraphQt.widgets.node_widgets.NodeComboBox":{get_value:[10,1,1,""],set_value:[10,1,1,""]},"NodeGraphQt.widgets.node_widgets.NodeFloatEdit":{get_value:[10,1,1,""],set_value:[10,1,1,""]},"NodeGraphQt.widgets.node_widgets.NodeLineEdit":{get_value:[10,1,1,""],set_value:[10,1,1,""]},NodeGraphQt:{BackdropNode:[12,0,1,""],BaseNode:[13,0,1,""],NodeBaseWidget:[10,0,1,""],NodeGraph:[7,0,1,""],NodeGraphCommand:[9,0,1,""],NodeGraphMenu:[9,0,1,""],NodeObject:[14,0,1,""],NodePublishWidget:[1,0,1,""],NodeTreeWidget:[1,0,1,""],NodesMenu:[9,0,1,""],Port:[15,0,1,""],PropertiesBinWidget:[1,0,1,""],SubGraph:[7,0,1,""],constants:[0,4,0,"-"],setup_context_menu:[9,6,1,""]}},objnames:{"0":["py","class","Python class"],"1":["py","method","Python method"],"2":["py","attribute","Python attribute"],"3":["py","property","Python property"],"4":["py","module","Python module"],"5":["py","data","Python data"],"6":["py","function","Python function"]},objtypes:{"0":"py:class","1":"py:method","2":"py:attribute","3":"py:property","4":"py:module","5":"py:data","6":"py:function"},terms:{"0":[0,3,4,6,7,10,13,14],"1":[0,1,2,3,4,5,6,7,9,10,11,12,13,14,15],"10":0,"100":[2,3],"11":0,"12":0,"13":0,"130":6,"136":6,"14":[0,6],"15":0,"16":0,"17":0,"180":4,"195":6,"2":[0,3,4,6,7,13],"200":6,"23":3,"255":[6,7,13,14],"3":[0,5],"300":[2,3,4],"35":6,"4":0,"45":6,"5":0,"50":4,"59":6,"6":[0,1,2,3,4,5,6,7,9,10,11,12,13,14,15],"60":6,"7":0,"70":6,"8":[0,6],"80":4,"9":[0,7],"class":[1,2,3,4,5,6,7,9,10,12,13,14,15],"default":[0,3,4,6,7,8,10,13],"float":[0,7,10,12,13,14],"function":[2,3,5,6,7,9,10,13,14],"import":[1,2,3,4,5,6,7,9,13],"int":[0,1,6,7,13,14],"new":[1,7,10,13,15],"return":[1,3,7,9,10,12,13,14,15],"short":2,"super":[2,3,4,5,6,13],"true":[7,13,14,15],A:4,And:6,By:7,For:15,If:[7,13,15],No:7,The:[0,1,2,3,5,6,7,9,10,12,13,14,15],There:3,To:[3,6,7,10],__classname__:14,__identifier__:[2,3,4,13,14],__init__:[2,3,4,6,13],__main__:[3,4],__name__:[3,4],_prop_bin:3,abov:[3,5,10],abstractnodeitem:14,access:9,action:[4,5,7],acycl:7,ad:[3,7,8,10,13,15],add:[1,2,3,7,9,13],add_checkbox:[3,10,13],add_child:7,add_combo_menu:[3,10,13],add_command:[2,9],add_custom_widget:[3,13],add_file_input:[10,13],add_float_input:[10,13],add_input:[2,3,4,6,13,15],add_int_input:[10,13],add_menu:[2,9],add_nod:[1,7],add_output:[2,3,4,6,13,15],add_properties_bin:7,add_separ:9,add_text_input:[3,10,13],additem:3,addwidget:3,after:13,alia:7,all:[1,7,9,13,14,15],all_command:9,all_nod:7,allow:[3,7,10,12,13],alreadi:5,also:2,alt:4,an:[2,3,4,6,7,13],angl:[0,5,7],anoth:[6,13,15],app:[3,4],append:[6,9],appl:3,appli:15,ar:[3,7,10,14,15],arg:[6,7,10,15],argument:6,argv:4,around:12,asid:2,assign:2,associ:13,attribut:[10,14],auto:[7,12],auto_layout_nod:7,auto_s:12,auto_upd:7,automat:7,avoid:7,b:[3,4,7,13,14],backdrop:12,backdropnod:[8,11,14],background:[0,7],background_color:7,banana:3,bar:[2,3],bar_nod:2,barnod:2,base:[3,7,13,14],basenod:[1,2,3,4,6,7,8,10,11,12,14,15],basi:2,basic:[3,8],been:[7,13],befor:10,begin_undo:7,below:[2,3,10],between:7,bin:[0,3,7,8,14],block:7,blue:[7,14],bool:[7,10,13,14,15],border_color:6,box:3,btn_go:3,built:[4,14],builtin:10,button:[0,3,7],c:3,call:[2,3,15],callback:13,can:[1,2,3,4,5,6,7,10,15],categori:1,cb1_index:3,cb2_index:3,center:[6,7],center_on:7,center_select:7,chang:[7,10],chantasticvfx:[2,3,4,13],check:[10,13,14],checkbox:13,child:9,children:7,class_nam:14,clear:[1,7],clear_bin:1,clear_connect:15,clear_select:7,clear_sess:7,clear_undo_stack:7,click:[2,3,7],clipboard:7,close:7,code:9,collis:7,color:[4,6,7,13,14],colorpick:0,com:[2,3,4,8,13],combin:9,combo1_v:3,combo2_v:3,combo:3,combo_1:3,combo_2:3,combobox:13,command:[2,4,8],compon:7,connect:[0,4,6,7,8,10,13,15],connect_to:[3,15],connected_input_nod:13,connected_output_nod:13,connected_port:15,constant:[5,7,8,14,15],contain:[0,7],context:[2,7,8],context_menu:[2,7,9],context_nodes_menu:7,control:[4,7],conveni:[2,5,7,9],copi:7,copy_nod:7,coupl:[2,3],creat:[1,2,4,7,8,13,14,15],create_from_nod:7,create_nod:[2,3,4,7],create_properti:[13,14],current:[0,6,7,9,10,12,14,15],current_dir:7,current_sess:7,currentindexchang:3,currenttext:3,curv:[0,5,7],custom:[2,7,8,10,13,14],cut:[2,7],cut_nod:7,data:[7,13,14],data_drop:7,data_typ:13,def:[2,3,4,6,13],defin:[2,14],delet:[7,13,14],delete_input:13,delete_nod:7,delete_output:13,describ:6,deselect:7,deseri:13,deserialize_sess:7,dialog:[1,7],dict:[6,7,13,14],dictionari:[7,14],differ:5,direct:0,directori:7,disabl:[7,14],disable_context_menu:7,disable_nod:7,disconnect:[4,7,13,15],disconnect_from:[3,15],displai:[1,3,10,12,13,14],display_nam:13,display_prop_bin:3,document:8,doe:13,domain:[4,13,14],done:3,dot:0,doubl:[3,7],down:[4,13],down_stream:7,drag:[1,4,7],draw:[0,6,7,13,14,15],draw_square_port:6,draw_triangle_port:6,drawn:7,drawpolygon:6,drawrect:6,drop:[1,7],duplic:7,duplicate_nod:7,easili:[4,5],edit:[1,5,7,13],eg:[1,9,14],either:14,elif:6,els:[3,6],emb:[3,10,13],embed:[8,13],emit:[7,10,15],enabl:[7,14],end:7,end_undo:7,enter:7,essenti:[2,9],evalu:13,event:13,exampl:[1,7,9,10,13],exec_:[3,4],execut:9,exist:[14,15],exit:7,ext:[7,10,13,14],extens:7,factor:7,factori:7,fals:[6,7,10,13,14,15],few:[1,2,3],ffffff:7,file:[0,1,7,13,14],file_path:7,fill:13,findtext:3,fit:[7,12],fit_to_select:7,flag:[13,14],follow:[7,14],foo:[2,3,4,13],foo_menu:2,foo_nod:2,foonod:[2,4,13],forc:13,format:[1,2,3,7],frame:7,framework:[0,1,10],from:[1,2,3,4,5,6,7,9,10,12,13,14,15],func:[2,9,10,14],g:[7,13,14],get:[2,7,9,13,14],get_command:9,get_context_menu:[2,7,9],get_custom_widget:[3,10],get_icon:10,get_input:13,get_label:10,get_menu:9,get_nam:10,get_node_by_id:7,get_node_by_nam:7,get_node_by_path:7,get_node_spac:7,get_output:13,get_properti:14,get_unique_nam:7,get_valu:[3,10],get_widget:13,get_zoom:7,github:8,given:7,go:3,good:12,graph:[0,1,3,4,5,8,10,12,14,15],graph_rect:7,graph_widget:4,graphic:[14,15],green:[7,14],grid:[0,7],grid_color:7,group:12,ha:[2,5,7,10,13],has_properti:14,have:[3,5,6,7,13],height:[6,7,12],hello:3,here:[1,2,3,4,5,6,14],hidden:0,hide:[13,14],horizont:[0,14],hotkei:4,hover:6,how:1,http:8,icon:[10,13],id:[1,7,14],identifi:[1,3,4,7,13,14],imag:13,implement:[6,7,9,10,13,14],import_sess:7,in_port:[0,13,15],includ:1,index:[3,13],info:6,inform:6,inherit:[4,7,9,10,12,13,14],initi:[3,4,7,13,14],input:[0,3,4,6,7,13,15],input_port:13,insert:7,insid:[3,12],instanc:7,interfac:[4,7],intern:7,intersect:12,isvis:3,item:[1,3,9,10,13,14,15],jchanvfx:8,json:[1,7],just:7,kei:[2,9],kwarg:10,label:[1,3,9,10,13],lai:7,layout:[0,3,7,8],layout_data:7,len:[2,3],level:7,librari:0,limit:1,line:[0,3,13],list:[1,3,7,9,12,13,14,15],ll:[5,9],lmb:[4,7],load:[1,7],load_dialog:7,load_sess:7,lock:[1,13,15],lock_bin:1,logic:13,made:13,main:[2,7,9,10,14],mainli:12,make:[3,7],manag:7,mango:3,mani:1,map:6,marque:4,match:[7,13],matchexactli:3,max:[7,14],menu:[4,7,8,13],menucommand:9,messag:7,message_dialog:7,meth:10,method:[7,13],mime:7,min:14,miterjoin:6,mmb:4,mode:[0,7,14],model:[7,14],modul:2,more:[3,13],mous:[4,6],multi:13,multi_connect:[6,13,15],multi_input:13,multi_lin:13,multi_output:13,multipl:3,must:10,my:3,my_list:3,my_test:2,my_widget:3,mycustomwidget:3,mylistnod:[3,6],mynod:3,mynodegraph:3,name:[2,3,4,7,9,10,13,14,15],namespac:0,navig:8,need:[6,7],nest:[10,12],node:[0,5,7,8,12,13,14,15],node_a:[3,4],node_abstract:14,node_b:[3,4],node_class:9,node_cr:7,node_double_click:[3,7],node_factori:7,node_graph:[1,2,3,9],node_id:7,node_layout_direct:0,node_layout_horizont:0,node_layout_vert:0,node_list:13,node_nam:[2,3,4,13,14],node_path:7,node_prop:[0,14],node_prop_button:[0,14],node_prop_colorpick:[0,14],node_prop_fil:[0,14],node_prop_file_sav:0,node_prop_float:[0,14],node_prop_int:[0,14],node_prop_qcheckbox:[0,14],node_prop_qcombo:[0,14],node_prop_qlabel:[0,14],node_prop_qlineedit:[0,14],node_prop_qspinbox:[0,14],node_prop_qtextedit:[0,14],node_prop_slid:[0,14],node_prop_vector2:[0,14],node_prop_vector3:[0,14],node_prop_vector4:[0,14],node_property_nam:10,node_property_valu:10,node_select:7,node_selection_chang:7,node_typ:[2,7,9],node_widget:[3,10,13],nodebasewidget:[3,8,13],nodecheckbox:8,nodecombobox:8,nodefactori:7,nodefilepath:8,nodefloatedit:8,nodegraph:[1,2,3,4,5,8,9,14,15],nodegraphcommand:9,nodegraphmenu:[7,9],nodegraphmodel:7,nodegraphqt:[0,1,2,3,4,5,6,7,9,10,12,13,14,15],nodeintedit:8,nodelineedit:8,nodemodel:14,nodeobject:[1,3,7,8,11,12,13,15],nodepropwidget:1,nodepublishwidget:1,nodes_delet:7,nodes_menu:[2,9],nodes_tre:1,nodescen:7,nodesmenu:[7,9],nodetreewidget:1,nodeview:7,nodewidgetwrapp:3,none:[1,3,7,9,10,12,13,14,15],nonetyp:13,note:5,noth:[0,13],now:6,number:2,object:[1,2,3,4,6,7,10,12,13,14,15],on_backdrop_upd:12,on_btn_go_click:3,on_input_connect:13,on_input_disconnect:13,on_value_chang:[3,10],one:[13,15],open:7,opengl:7,option:[7,12],orang:3,other:12,out:[0,2,3,4,7,13],out_port:[0,13,15],output:[0,3,4,7,13,15],output_port:13,over:[6,7],overrid:[2,13],overview:[7,8],own:10,paint:6,painter:6,painter_func:[6,13],pan:4,paramet:[1,6,7,9,10,12,13,14,15],parent:[1,3,7,10,14,15],parent_nod:14,pass:6,past:7,paste_nod:7,path:[7,13,14],pear:3,pen:6,per:2,pipe:[0,7,8,13,15],pipe_collis:7,pipe_layout_angl:[0,5,7],pipe_layout_curv:[0,5,7],pipe_layout_straight:[0,5,7],po:[2,3,4,7,14],polygon:6,popul:9,port:[0,3,4,7,8,11,13],port_a:3,port_b:3,port_connect:[7,15],port_data:13,port_disconnect:[7,15],port_nam:13,port_object:13,port_poli:6,port_typ:6,portitem:[13,15],posit:[6,7,14],pre:13,print:[2,3],prompt:7,prop_bin:7,prop_widget:1,properti:[0,3,7,8,10,12,13,14],properties_bin:1,propertiesbin:8,propertiesbinwidget:[1,3,7,13,14],property_chang:7,property_nam:13,propeti:10,provid:14,publish:8,pyside2:[7,13],python:14,qaction:9,qapplic:[3,4],qcheckbox:[0,3,10,13],qcolor:6,qcombobox:[0,3,10,13],qgraphic:14,qgraphics_item:14,qgraphicsitem:14,qgraphicsscen:7,qhboxlayout:3,qlabel:[0,13],qlayout:7,qlineedit:[0,3,10,13],qmenu:9,qmimedata:7,qobject:7,qpainter:6,qpen:6,qpoint:7,qpointf:6,qpolygonf:6,qpushbutton:3,qrectf:6,qspinbox:0,qt:[3,4,6,10],qtcore:[3,6,7],qtextedit:0,qtgui:6,qtransform:6,qtwidget:[1,3,4,7,10,13,14],question:7,question_dialog:7,qundostack:7,qundoview:7,qwidget:[1,3,7,10],r:[7,13,14],rang:[7,13,14],re:[9,10,13,14],rect:[6,7],red:[7,14],redo:13,redraw:13,refresh:1,regist:[1,2,4,7],register_nod:[2,3,4,7],registered_nod:7,reimplement:3,remov:[1,7],remove_child:7,remove_nod:1,render:0,repres:0,requir:13,reset:7,reset_zoom:7,resiz:12,restor:[6,13],result:[4,9],revers:13,root:[1,7],root_nod:7,run:[7,13],run_command:9,s:[1,3,4,5,6,9,12],same:[7,15],save:[0,6,7],save_dialog:7,save_sess:7,scene:[7,13,14],scroll:4,search:8,see:[2,3,7,10,13,15],select:[2,7,8,14],select_al:7,selected_nod:[2,7],selector:0,self:[2,3,4,6,13],separ:9,serial:[1,7,13],serialize_sess:7,session:7,session_chang:7,set:[0,1,2,3,4,5,7,9,10,12,13,14,15],set_acycl:7,set_background_color:7,set_category_label:1,set_color:14,set_custom_widget:[3,10],set_dis:[7,14],set_dynamic_port:13,set_edit:13,set_graph:14,set_graph_rect:7,set_grid_color:7,set_grid_mod:7,set_icon:13,set_input:[3,13],set_label:[3,10],set_limit:1,set_lock:[13,15],set_model:14,set_nam:[3,10,14],set_node_spac:7,set_output:[3,4,13],set_par:14,set_pipe_collis:7,set_pipe_styl:[5,7],set_po:14,set_port:13,set_properti:[3,10,13,14],set_select:14,set_shortcut:9,set_siz:12,set_text:12,set_valu:[3,10],set_view:14,set_vis:15,set_x_po:14,set_y_po:14,set_zoom:7,setbrush:6,setcontentsmargin:3,setcurrentindex:3,setjoinstyl:6,setpen:6,setup:8,setup_context_menu:[2,4,5,9],setwindowflag:3,shape:[8,13],shift:[2,4],shortcut:9,shotcut:9,should:15,show:[1,2,3,4,7,13,14],shown:5,signal:[3,7,10,12,13,15],simpl:[1,5,7,8],simpli:3,singl:15,size:[6,12],slice:8,slider:[0,13],slot:[3,10,12],snippet:[4,5,13],so:15,some:[2,3,14],sourc:13,space:7,specifi:[6,7,9,12,13,15],split:3,squar:8,stack:7,start:7,start_nod:7,state:[6,7,10,13,14,15],store:7,str:[1,7,9,10,12,13,14,15],straight:[0,5,7],stream:[7,13],string:[7,12,14],style:[0,5,7],sub:[7,9],subclass:3,subgraph:[8,14],sy:4,t:[2,15],tab:[3,8,13,14],target:13,test:2,test_func:2,text:[7,10,12,13],text_color:7,than:13,them:4,thi:[1,2,5,7,10,13,14,15],throughout:0,titl:7,togeth:[4,12],toggl:4,tool:[3,4],transform:6,translat:6,tree:8,triangl:8,trigger:[7,9,10,12,13],tupl:[7,12,13,14],two:4,type:[0,1,2,3,7,9,10,12,13,14,15],type_:[14,15],under:[5,12],undo:[7,13],undo_stack:7,undo_view:7,uniqu:[3,4,7,13,14],unique_nam:7,unlik:7,unlock:[1,15],unselect:4,up:[2,3,4,5,7,13],updat:[1,3,12,13,14],update_combo_menu:13,update_model:14,update_prop:12,update_stream:13,us:[0,4,6,7,10,14,15],use_opengl:7,user:[1,4,7],v0:[0,1,2,3,4,5,6,7,9,10,11,12,13,14,15],valu:[3,7,10,12,13,14],value_chang:[10,13],variabl:[0,5,14],ve:5,vector2:0,vector3:0,vector4:0,version:0,vertic:0,view:[3,7,10,13,14],viewer:7,viewer_grid_dot:[0,7],viewer_grid_lin:[0,7],viewer_grid_non:[0,7],visibl:[4,13,15],wa:13,wai:3,we:[2,3],weather:[7,15],when:[3,7,10,13,15],where:[2,3,6],whether:[7,13,14],whole:0,widget:[0,2,4,7,13,14],widget_typ:[13,14],width:[7,12],window:7,wire:[3,7,13],wire_sign:3,within:12,work:13,world:3,wrap:12,wrap_nod:12,wrapper:[3,10],x:[6,7,14],x_po:14,xy:14,y:[6,7,14],y_po:14,ye:7,you:[2,3,5,6,10,13],your:[5,10],zoom:[4,7]},titles:["Constants","Custom Widgets","Menu Examples","Node Examples","Basic Overview","Pipe Examples","Port Examples","Graphs","NodeGraphQt v0.1.6","Menus","Node Embedded Widgets","Nodes","BackdropNode","BaseNode","NodeObject","Port"],titleterms:{"1":8,"6":8,"class":11,"default":2,ad:2,api:8,backdropnod:12,basenod:13,basic:4,bin:1,command:9,connect:3,constant:0,context:9,creat:[3,6],custom:[1,3,6],embed:[3,10],exampl:[2,3,4,5,6,8],graph:[2,7,9],layout:5,menu:[2,9],navig:4,node:[1,2,3,4,9,10,11],nodebasewidget:10,nodecheckbox:10,nodecombobox:10,nodefilepath:10,nodefloatedit:10,nodegraph:7,nodegraphqt:8,nodeintedit:10,nodelineedit:10,nodeobject:14,overview:4,pipe:[4,5],port:[6,15],properti:1,propertiesbin:3,publish:1,refer:8,search:4,select:4,setup:[2,9],shape:6,simpl:4,slice:4,squar:6,subgraph:7,tab:4,tree:1,triangl:6,v0:8,widget:[1,3,8,10]}})

diff --git a/api/html/custom_widgets.html b/api/html/custom_widgets.html
@@ -334,12 +334,13 @@ by dragging and dropping.</p>
 <dl class="py method">
 <dt class="sig sig-object py" id="NodeGraphQt.NodeTreeWidget.set_category_label">
 <span class="sig-name descname"><span class="pre">set_category_label</span></span><span class="sig-paren">(</span><em class="sig-param"><span class="n"><span class="pre">category</span></span></em>, <em class="sig-param"><span class="n"><span class="pre">label</span></span></em><span class="sig-paren">)</span><a class="headerlink" href="#NodeGraphQt.NodeTreeWidget.set_category_label" title="Permalink to this definition">¶</a></dt>
-<dd><p>Set custom display label for a node category.</p>
+<dd><p>Set custom label for a node category root item.</p>
+<img alt="_images/nodes_tree_category_label.png" src="_images/nodes_tree_category_label.png" style="width: 70%;" />
 <dl class="field-list simple">
 <dt class="field-odd">Parameters</dt>
 <dd class="field-odd"><ul class="simple">
-<li><p><strong>category</strong> (<em>str</em>) – node identifier category eg. “nodeGraphQt.nodes”</p></li>
-<li><p><strong>label</strong> (<em>str</em>) – custom display label.</p></li>
+<li><p><strong>category</strong> (<em>str</em>) – node identifier category eg. <code class="docutils literal notranslate"><span class="pre">&quot;nodes.widgets&quot;</span></code></p></li>
+<li><p><strong>label</strong> (<em>str</em>) – custom display label. eg. <code class="docutils literal notranslate"><span class="pre">&quot;Node</span> <span class="pre">Widgets&quot;</span></code></p></li>
 </ul>
 </dd>
 </dl>

diff --git a/api/html/_static/css/theme.css b/api/html/_static/css/theme.css
@@ -4278,7 +4278,7 @@ footer p{
 .rst-content .linenodiv pre,.rst-content div[class^=highlight] pre,.rst-content pre.literal-block{
     font-family:SFMono-Regular,Menlo,Monaco,Consolas,Liberation Mono,Courier New,Courier,monospace;
     font-size:12px;
-    line-height:1.4
+    line-height:1.45
 }
 .rst-content div.highlight .gp{
     user-select:none;
